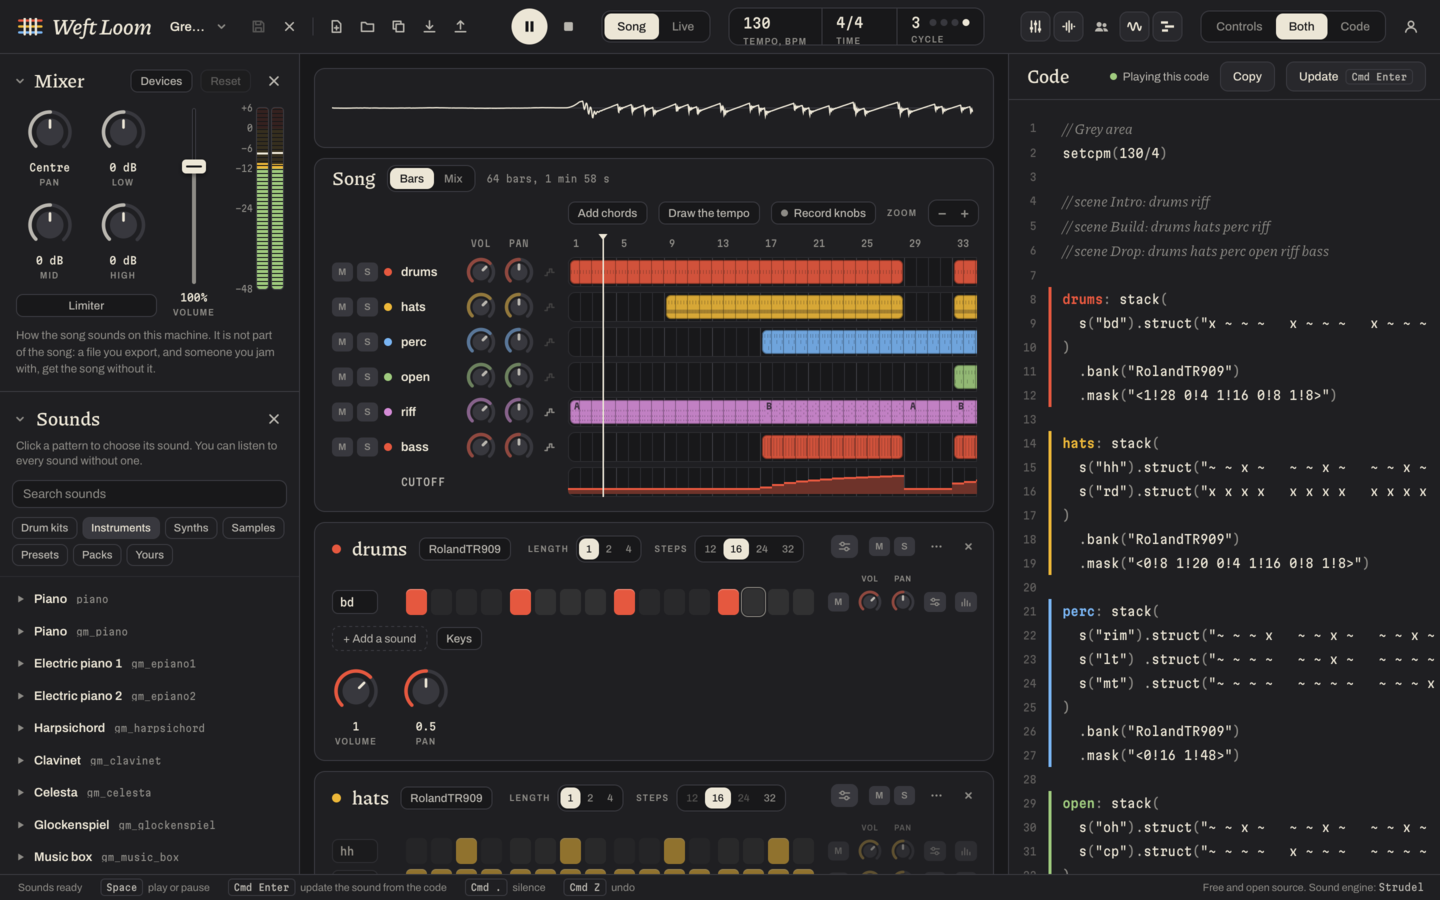
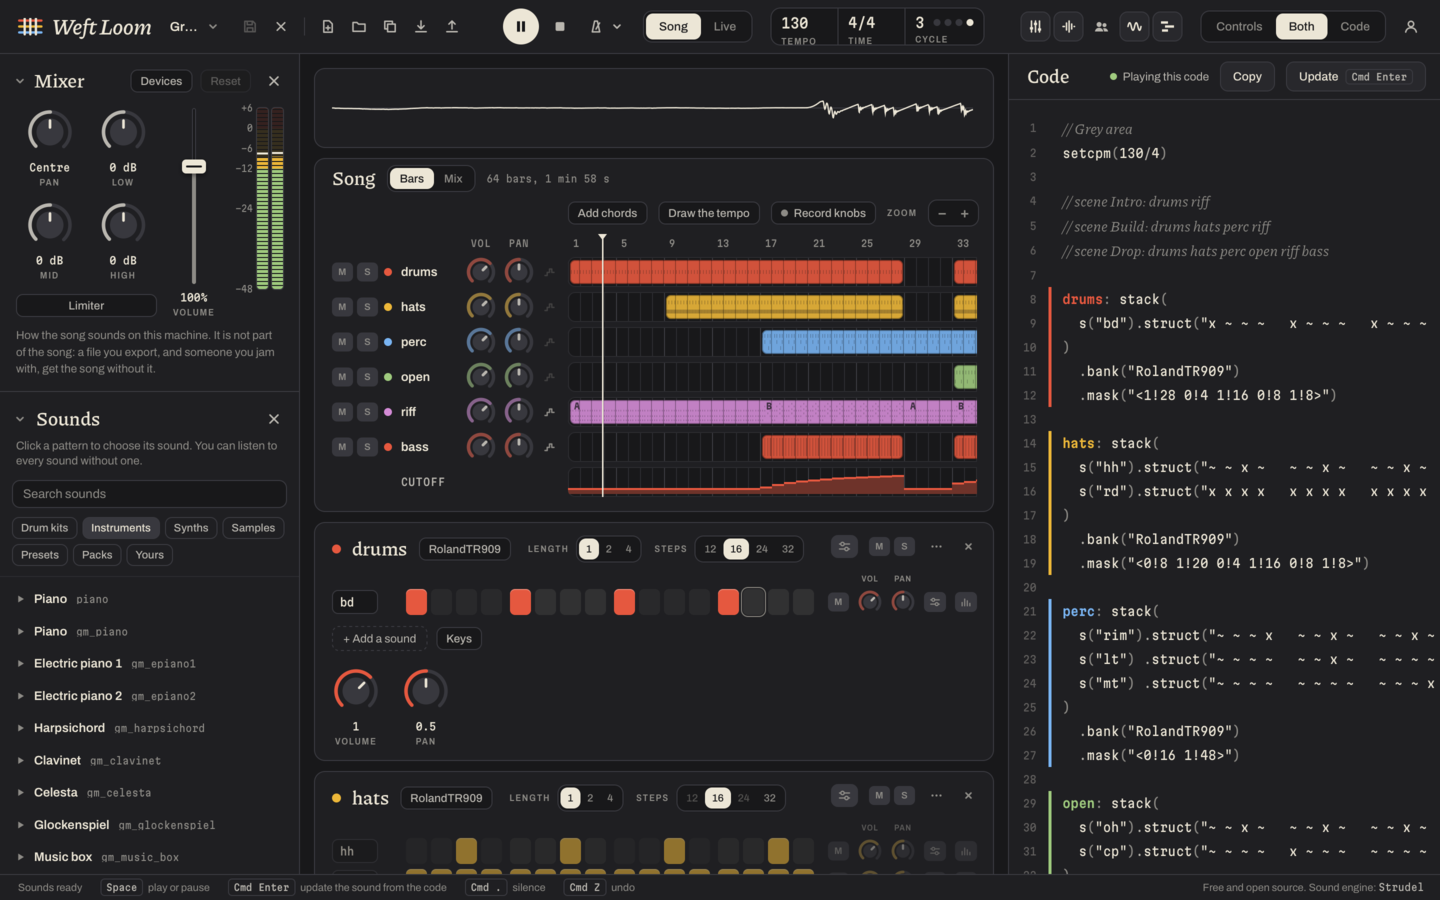
docs: several at once, the metronome, and the pictures taken again
Choosing several notes or steps, copying and pasting them and the menu
of a sound get a part of their own with two pictures, and the window's
part says what the metronome and the count-in are. Every picture is
taken again, so the top bar in them has the metronome.

diff --git a/server/docs.ts b/server/docs.ts
@@ -4,7 +4,7 @@
 export type DocPicture = { file: string; width: number; height: number; alt: string }
 export type DocSection = { id: string; title: string; pictures: DocPicture[]; html: string }
 
-export const DOCS_ABOUT = 'How Weft Loom works, one thing at a time: patterns, sounds, the song, tempo and time, chords, knobs over the song, versions, scenes, recordings, packs, MIDI, jams, and getting a song out.'
+export const DOCS_ABOUT = 'How Weft Loom works, one thing at a time: patterns, sounds, the song, tempo and time, choosing several notes at once, chords, knobs over the song, versions, scenes, recordings, packs, MIDI, jams, and getting a song out.'
 
 export const DOCS: DocSection[] = [
     {
@@ -27,12 +27,22 @@ export const DOCS: DocSection[] = [
             { file: '/docs/roll.webp', width: 980, height: 327, alt: 'A pattern of notes in a piano roll, with its knobs in a row under it.' },
         ],
         html: `<p>The row under the strips adds a pattern: Drums, Bass line, Chords or Melody.</p>
-<p><b>Drums</b> are a grid. Click a step to put a hit there, and click it again to take it away. Press and drag along a row to fill every step you pass, or to empty them when the drag begins on a hit. Hold <kbd>Shift</kbd> and click to make a hit louder. Add a sound adds a row, and a click on a row's name plays that sound. Every row has its own mute, volume, pan and controls at its end. A right click on a sound's name opens what can be done with its whole row: hear it, give it another sound, let it cut itself off when it is hit again, copy and paste the row onto another, fill it on every 2, 4 or 8 steps, clear it, or move it a step left or right.</p>
+<p><b>Drums</b> are a grid. Click a step to put a hit there, and click it again to take it away. Press and drag along a row to fill every step you pass, or to empty them when the drag begins on a hit. Hold <kbd>Shift</kbd> and click to make a hit louder. Add a sound adds a row, and a click on a row's name plays that sound. Every row has its own mute, volume, pan and controls at its end. A right click on a sound's name opens a menu for its row: see Several at once.</p>
 <p>Each hit of a row can be its own. The button with the bars at the end of a row opens it <b>step by step</b>: drag over the bars to give every hit its level, and choose Chance, Repeats, Pan, Pitch, Cutoff or Echo to do the same with those. A hit with a chance plays only some of the times round, and a hit with repeats plays two, three or four times in its step.</p>
 <p><b>Notes</b> are a piano roll. Click an empty cell for a note, or press there and drag to the right to draw one as long as the drag. Drag a note to move it, drag its right edge to make it longer, and double click it to remove it. Higher and Lower show more of the keyboard. Choose a Key and the roll keeps to the notes of that key; with Chords on, one click puts in the whole chord. <b>Level</b> puts a bar under the roll for every step a note starts on: drag over them to make notes louder or quieter.</p>
-<p>To work on several notes or hits at once, hold <kbd>Shift</kbd> and drag a box over them. In a roll <kbd>Shift</kbd> and a click adds a note, and in a grid it is still a louder hit. Drag one of the chosen notes and they all move, and the arrow keys move them too. <kbd>Cmd</kbd> <kbd>C</kbd> copies what is chosen and <kbd>Cmd</kbd> <kbd>V</kbd> puts it into the bar in sight, at the same place in the bar, or into the next bar when the bar in sight is the one it came from. It goes into another pattern of the same kind as well: click in that one first. <kbd>Delete</kbd> takes out what is chosen, <kbd>Cmd</kbd> <kbd>A</kbd> chooses everything and <kbd>Escape</kbd> lets it go.</p>
 <p><b>Length</b> is how many bars the pattern lasts before it comes round again. <b>Steps</b> is how finely a bar is divided: 16 is the usual, 12 and 24 divide each beat in three, for a shuffle or a swing. When a pattern is longer than one bar, <b>Cycle</b> pages through its bars.</p>
 <p>At the right of a strip, M mutes the pattern and S plays it alone. The three dots rename, duplicate and move it, and the cross removes it. Under the grid or the roll are the pattern's knobs, with Volume and Pan first.</p>`,
+    },
+    {
+        id: 'several',
+        title: 'Several at once',
+        pictures: [
+            { file: '/docs/select.webp', width: 980, height: 367, alt: 'A piano roll with a box drawn over four notes while Shift is held, to choose them.' },
+            { file: '/docs/menu.webp', width: 760, height: 427, alt: 'The menu of a sound in a drum grid, in two columns: hear, step by step, mute, replace with, cut itself, remove; cut, copy, paste, fill each 2, 4 or 8 steps, clear, rotate left and right.' },
+        ],
+        html: `<p>Hold <kbd>Shift</kbd> and drag a box over notes in a roll, or over steps in a grid, to choose them. In a roll <kbd>Shift</kbd> and a click adds a note; in a grid it is still a louder hit. Drag one of the chosen notes and they all move, and the arrow keys move them too.</p>
+<p><kbd>Cmd</kbd> <kbd>C</kbd> copies what is chosen, <kbd>Cmd</kbd> <kbd>X</kbd> cuts it, and <kbd>Cmd</kbd> <kbd>V</kbd> puts it into the bar in sight, at the same place in the bar. When the bar in sight is the one it came from, it goes into the next bar, so copying a bar and pasting it fills the bar after it. It goes into another pattern of the same kind as well: click in that one first. <kbd>Delete</kbd> takes out what is chosen, <kbd>Cmd</kbd> <kbd>A</kbd> chooses everything and <kbd>Escape</kbd> lets it go.</p>
+<p>A right click on the name of a sound in a drum grid opens what can be done with its whole row: hear it, give it another sound, let it cut itself off when it is hit again, copy it and paste it onto another row, fill it on every 2, 4 or 8 steps, clear it, or move it a step left or right.</p>`,
     },
     {
         id: 'sounds',
